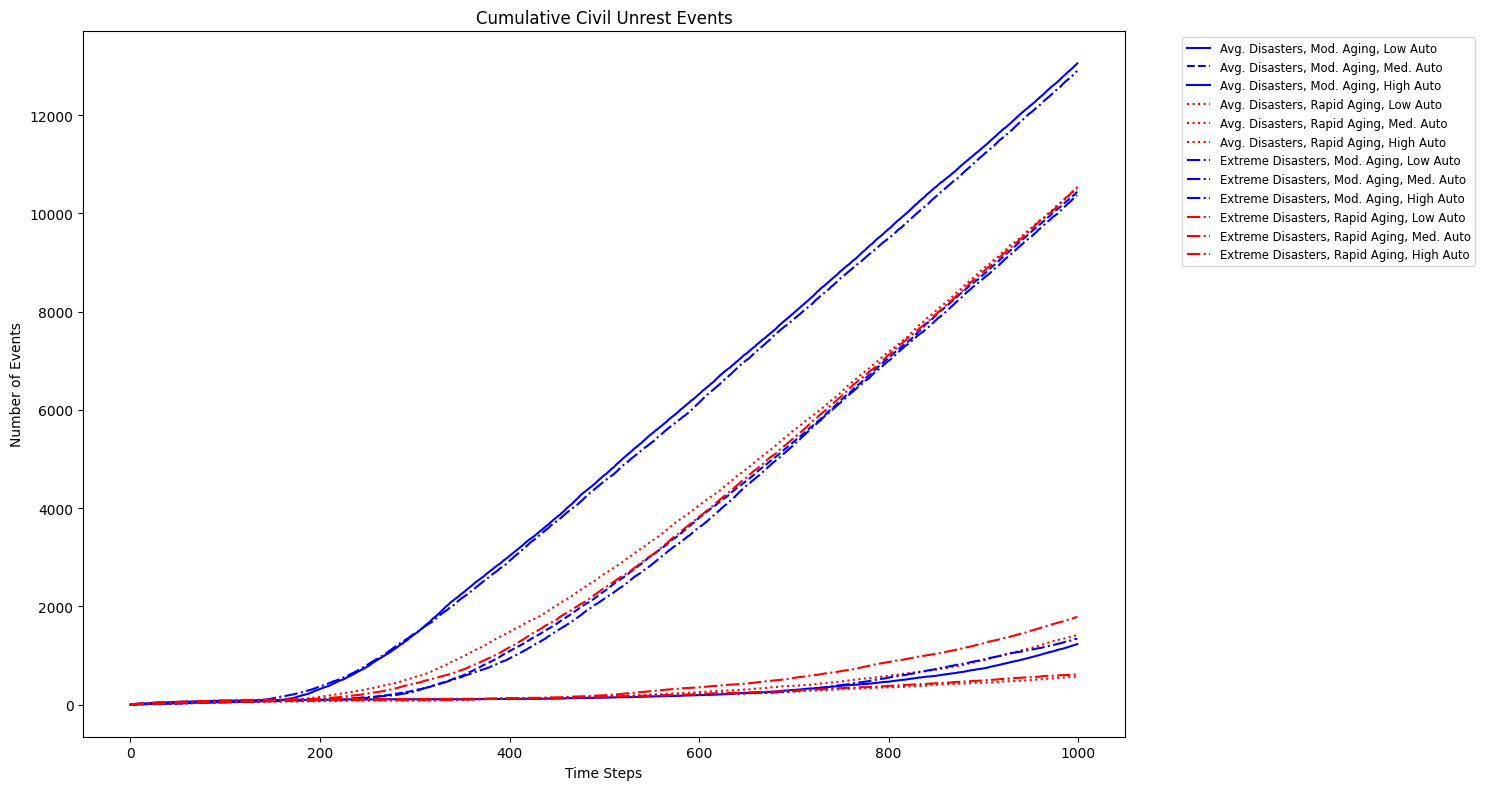
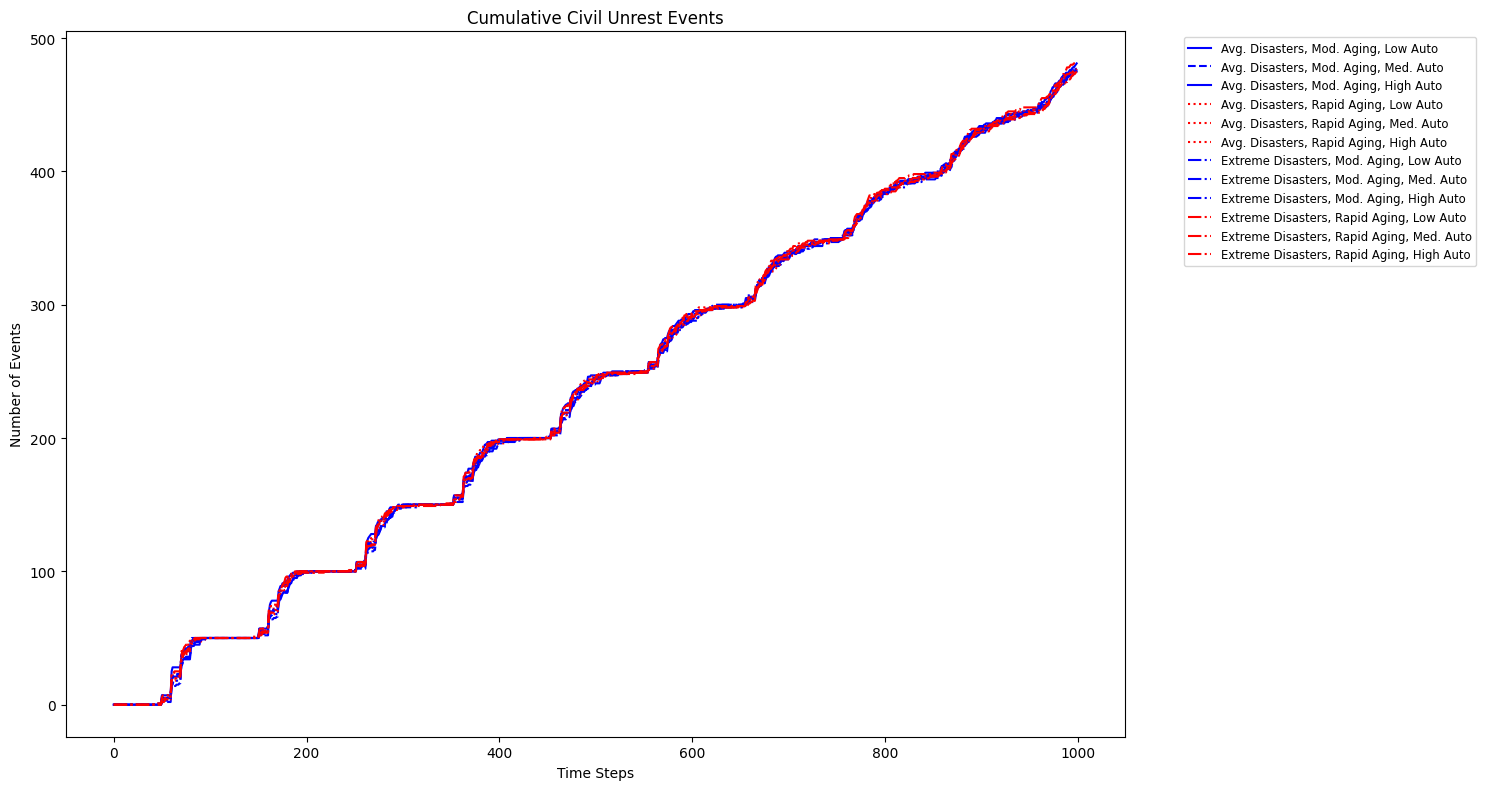
population explosion

diff --git a/warmodel.py b/warmodel.py
@@ -65,7 +65,9 @@ class EnhancedMultiNationalEconomicWarRiskModel:
         self.disaster_scenario = disaster_scenario
         self.aging_scenario = aging_scenario
         self.automation_level = automation_level
-        
+        self.unrest_cooldown = {country: 0 for country in self.country_properties.keys()} 
+        self.productivity_boost_cooldown = {country: 0 for country in self.country_properties.keys()}
+
     def initialize_countries(self):
         countries = []
 
@@ -88,8 +90,18 @@ class EnhancedMultiNationalEconomicWarRiskModel:
                                 (1 + props['urbanization']) * 
                                 (1 - props['aging_index'] / 100) * 
                                 (1 / props['unrest_adjustment']),
+                'birth_rate': self.calculate_initial_birth_rate(props),
+                'death_rate': self.calculate_initial_death_rate(props),
             })
         return countries
+
+    def calculate_initial_birth_rate(self, country_props):
+        # 簡易的な出生率計算（実際のデータに基づいて調整が必要）
+        return 0.02 - 0.01 * (country_props['aging_index'] / 100)  # 2% ~ 1%
+
+    def calculate_initial_death_rate(self, country_props):
+        # 簡易的な死亡率計算（実際のデータに基づいて調整が必要）
+        return 0.007 + 0.003 * (country_props['aging_index'] / 100)  # 0.7% ~ 1%
 
     def create_clusters(self, country_props):
         clusters = []
@@ -134,19 +146,45 @@ class EnhancedMultiNationalEconomicWarRiskModel:
         
         return wealth_distribution
 
+    def update_growth(self, country, t, T):
+        if t % 10 == 0:
+            # Update growth for each cluster
+            for cluster in country['clusters']:
+                # Apply growth rate to cluster wealth
+                net_growth_rate = country['birth_rate'] - country['death_rate']
+                cluster['wealth'] *= (1 + net_growth_rate)
+
+            # Update country's total wealth
+            country['wealth'] = sum(cluster['wealth'] for cluster in country['clusters'])
+            return country
+        else:
+            return country
 
     def update_demographics(self, country, t, T):
-        if country['aging_index'] < 20:
-            # Young countries stay young
-            country['aging_index'] = min(20, country['aging_index'] + 1 * (t / T))
+        # 高齢化と都市化の更新
+        if t % 10 == 0:
+            if country['aging_index'] < 20:
+                country['aging_index'] = min(20, country['aging_index'] + 1 * (t / T))
+            else:
+                if self.aging_scenario == 'moderate':
+                    country['aging_index'] = min(40, country['aging_index'] + (0.3 * 70 * (t / 800) * (1 if np.random.random() < 0.6 else -1)))
+                else:  # rapid aging
+                    country['aging_index'] = min(140, country['aging_index'] + 80 * (t / T))
+            country['urbanization'] = min(1, 0.3 + 0.7 * (t / T))
+
+            # 人口増加の計算
+            net_growth_rate = country['birth_rate'] - country['death_rate']
+            for cluster in country['clusters']:
+                cluster['population'] *= (1 + net_growth_rate)
+            country['population'] = sum(cluster['population'] for cluster in country['clusters'])
+
+            # 出生率と死亡率の動的な更新
+            country['birth_rate'] = max(0.005, country['birth_rate'] - 0.0001 * (t / T))  # 出生率は緩やかに低下
+            country['death_rate'] = min(0.02, country['death_rate'] + 0.00005 * (t / T))  # 死亡率は緩やかに上昇
+
+            return country
         else:
-            # Older countries age gradually
-            if self.aging_scenario == 'moderate':
-                country['aging_index'] = min(100, country['aging_index'] + 40 * (t / T))
-            else:  # rapid aging
-                country['aging_index'] = min(200, country['aging_index'] + 90 * (t / T))
-        country['urbanization'] = min(1, 0.3 + 0.7 * (t / T))
-        return country
+            return country
 
     
     def calculate_gini_coefficient(self, clusters):
@@ -174,21 +212,35 @@ class EnhancedMultiNationalEconomicWarRiskModel:
         gini_coefficient = 1 - 2 * area_under_lorenz
         return gini_coefficient
 
-    
-    def calculate_national_wealth(self, clusters, tax_rate, aging_index):
+        
+    def calculate_national_wealth(self, country, tax_rate):
+        aging_index = country['aging_index']
+        
         if aging_index <= 20:
             adjusted_tax_rate = tax_rate * 0.6
         elif aging_index >= 200:
             adjusted_tax_rate = tax_rate * 1.3
         else:
             adjusted_tax_rate = tax_rate * (0.6 + 0.7 * (aging_index - 20) / 180)
-        return sum(cluster['wealth'] for cluster in clusters) * adjusted_tax_rate
-    
+        
+        total_wealth = sum(cluster['wealth'] for cluster in country['clusters'])
+        tax_collected = total_wealth * adjusted_tax_rate
+        
+        # Deduct taxes from each cluster proportionally
+        for cluster in country['clusters']:
+            cluster_tax = cluster['wealth'] * adjusted_tax_rate
+            cluster['wealth'] -= cluster_tax
+        
+        # Update country's wealth
+        country['wealth'] += tax_collected
+        
+        return country
+
     def calculate_unrest_score(self, country):
         urban_rural_conflict = abs(country['urbanization'] - 0.5)
         education_resentment = country['education_level'] * (1 - country['education_level'])  # Highest at 0.5, lowest at 0 and 1
         elite_surplus = (country['education_level'] - country['wealth'] / country['population']) * 0.1
-        gini_score = country['gini_coefficient'] / (country['wealth'] / country['population'])
+        gini_score = country['gini_coefficient'] * country['population'] / country['wealth'] if country['wealth'] > 0 else 1
         
         # Normalize values to 0-1 range
         urban_rural_conflict = max(min(urban_rural_conflict, 1), 0)
@@ -200,9 +252,18 @@ class EnhancedMultiNationalEconomicWarRiskModel:
     
     
     def check_civil_unrest(self, country):
+        if self.unrest_cooldown[country['name']] > 0:
+            self.unrest_cooldown[country['name']] -= 1
+            return False
+
         unrest_score = self.calculate_unrest_score(country)
-        unrest_probability = max(min(unrest_score * country['unrest_adjustment'], 1), 0)
-        return random.random() < unrest_probability
+        unrest_threshold = 0.7
+        unrest_probability = max(min((unrest_score - unrest_threshold) * country['unrest_adjustment'], 1), 0)
+        
+        if random.random() < unrest_probability:
+            self.unrest_cooldown[country['name']] = 100  # 60-step cooldown period
+            return True
+        return False
     
     def apply_disaster_penalty(self, wealth):
         if np.random.random() < self.disaster_scenario['probability']:
@@ -213,18 +274,27 @@ class EnhancedMultiNationalEconomicWarRiskModel:
     def apply_automation_effects(self, country):
         if self.automation_level == 'low':
             productivity_boost = 1.1
-            inequality_factor = 0.99
+            inequality_change_bad = (1.05, 1.10)
+            inequality_change_good = (0.88, 0.94)
             education_factor = 1.01
         elif self.automation_level == 'medium':
             productivity_boost = 1.3
-            inequality_factor = 1.01
+            inequality_change_bad = (1.07, 1.12)
+            inequality_change_good = (0.86, 0.92)
             education_factor = 1.03
         else:  # high
             productivity_boost = 1.5
-            inequality_factor = 1.04
+            inequality_change_bad = (1.09, 1.14)
+            inequality_change_good = (0.84, 0.90)
             education_factor = 1.05
         
         country['productivity'] *= productivity_boost
+        
+        if random.random() < 0.4:  # 2 in 5 chance
+            inequality_factor = random.uniform(*inequality_change_bad)
+        else:  # 3 in 5 chance
+            inequality_factor = random.uniform(*inequality_change_good)
+        
         country['gini_coefficient'] = min(1, country['gini_coefficient'] * inequality_factor)
         country['education_level'] *= education_factor
         return country
@@ -243,17 +313,46 @@ class EnhancedMultiNationalEconomicWarRiskModel:
         # 2. 全世界の富の大きさ
         poor_nations = [w for w in national_wealth if w < 0.5 * avg_wealth]
         wealth_gap = sum(0.5 * avg_wealth - w for w in poor_nations)
-        # Prevent overflow by clamping the exponent
         exponent = np.clip(0.001 * (total_wealth - wealth_gap), -709, 709)
         global_wealth_factor = 1 / (1 + np.exp(exponent))
         
-        # 戦争リスク計算
-        war_risk = (
-            poor_country_ratio
-        ) * global_wealth_factor
+        # 3. 新しい要因: 教育レベルの差
+        education_disparity = np.std(education_levels) / np.mean(education_levels)
+        
+        # 4. 新しい要因: 高齢化の差
+        aging_disparity = np.std(aging_indices) / np.mean(aging_indices)
+        
+        # 戦争リスク計算（係数を導入）
+        base_risk = (
+            0.1 * poor_country_ratio +
+            0.2 * global_wealth_factor +
+            0.15 * education_disparity +
+            0.15 * aging_disparity
+        )
+        
+        # 調整係数（この値は適切に調整する必要があります）
+        adjustment_factor = 0.01
+        
+        war_risk = 1 - np.exp(-adjustment_factor * base_risk)
         
         return min(max(war_risk, 0), 1)
-    
+
+
+    def apply_productivity_boost(self, country):
+        if self.productivity_boost_cooldown[country['name']] > 0:
+            self.productivity_boost_cooldown[country['name']] -= 1
+            return country, False
+
+        if random.random() < 0.025:  # 1 in 40 chance (on average, once every 40 steps)
+            boost_factor = random.uniform(1.3, 2.0)
+            for cluster in country['clusters']:
+                cluster['wealth'] *= boost_factor
+            country['wealth'] = sum(cluster['wealth'] for cluster in country['clusters'])
+            self.productivity_boost_cooldown[country['name']] = 40  # Set cooldown to 40 steps
+            return country, True
+
+        return country, False
+
     def apply_war_penalties(self, countries):
         active_countries = [country for country in countries if country['active']]
         if len(active_countries) < 2:
@@ -263,19 +362,39 @@ class EnhancedMultiNationalEconomicWarRiskModel:
         losers = [country for country in active_countries if country != winner]
 
         winner['wealth'] *= 0.8
+        winner['birth_rate'] *= 2
+        winner['death_rate'] /= 2
+        winner['aging_index'] = 15  # Reset to a young population
 
         for loser in losers:
             loser['wealth'] *= 0.4
+            loser['birth_rate'] *= 2
+            loser['death_rate'] /= 2
+            loser['aging_index'] = 15  # Reset to a young population
 
         return countries
-    
-    def get_adjusted_clusters(self, country):
-        for i in range(len(country['clusters'])):
-            country['clusters'][i]['wealth'] *= (1 + np.random.normal(0, 0.2))  # Small random fluctuation in wealth
-            country['clusters'][i]['population'] *= (1 + np.random.normal(0, 0.005) - country['aging_index'] * 0.0002)  # Population change considering aging
 
-        country['population'] = sum(cluster['population'] for cluster in country['clusters'])
-        country['wealth'] = sum(cluster['wealth'] for cluster in country['clusters'])
+    def redistribute_wealth_during_unrest(self, country, unrest_impact):
+        total_wealth = sum(cluster['wealth'] for cluster in country['clusters'])
+        total_population = sum(cluster['population'] for cluster in country['clusters'])
+        average_wealth_per_capita = total_wealth / total_population
+
+        # 勝者のクラスターを選択（貧しいクラスターがやや有利）
+        clusters_with_weights = [(cluster, 1 / (cluster['wealth'] + 1)) for cluster in country['clusters']]
+        total_weight = sum(weight for _, weight in clusters_with_weights)
+        normalized_weights = [weight / total_weight for _, weight in clusters_with_weights]
+        winner_cluster = random.choices(country['clusters'], weights=normalized_weights, k=1)[0]
+
+        for cluster in country['clusters']:
+            if cluster == winner_cluster:
+                # 勝者のクラスターは富を増やす
+                cluster['wealth'] *= 1.2
+            else:
+                # 敗者のクラスターは富を減らし、一部を勝者に移転
+                reduction = cluster['wealth'] * 0.3
+                cluster['wealth'] -= reduction
+                winner_cluster['wealth'] += reduction * 0.5  # 減少分の半分を勝者に
+
         return country
 
     def simulate(self, T, dt):
@@ -288,7 +407,9 @@ class EnhancedMultiNationalEconomicWarRiskModel:
         global_war_events = np.zeros(time_steps, dtype=bool)
         disaster_events = np.zeros((self.num_countries, time_steps), dtype=bool)
         unrest_events = np.zeros((self.num_countries, time_steps), dtype=bool)
-        
+        population_data = np.zeros((self.num_countries, time_steps))
+        innovation_events = np.zeros((self.num_countries, time_steps), dtype=bool)
+
         countries = self.initialize_countries()
         
         for t in range(time_steps):
@@ -302,28 +423,33 @@ class EnhancedMultiNationalEconomicWarRiskModel:
                 if not country['active']:
                     continue
                 
+
+
+                country = self.update_growth(country, t, T)
                 country = self.update_demographics(country, t, T)
                 country = self.apply_automation_effects(country)
-                
-                # Update clusters' wealth and population
-                country = self.get_adjusted_clusters(country);
+                country, innovation_occurred = self.apply_productivity_boost(country)
+                if innovation_occurred:
+                    innovation_events[i,t] = True
 
-
-                new_wealth = self.calculate_national_wealth(country['clusters'], self.initial_conditions['tax_rate'], country['aging_index'])
-                country['wealth'] = country['wealth'] + new_wealth
+                country = self.calculate_national_wealth(country, self.initial_conditions['tax_rate'])
                 country['wealth'], disaster_events[i, t] = self.apply_disaster_penalty(country['wealth'])
 
 
                 unrest_events[i, t] = self.check_civil_unrest(country)
                 if unrest_events[i, t]:
-                    country['wealth'] *= np.random.uniform(0.9, 1.0)  # 内乱による経済的損失（ランダムな影響）
-                
+                    unrest_impact = np.random.uniform(0.8, 0.9)  # より小さな経済的損失
+                    country['wealth'] *= unrest_impact
+                    country = self.redistribute_wealth_during_unrest(country, unrest_impact)
+                    country['unrest_adjustment'] *= 0.8  # 内戦後、一時的に不安定性が低下
+
                 national_wealth[i, t] = country['wealth']
                 urbanization_rates[i, t] = country['urbanization']
                 aging_indices[i, t] = country['aging_index']
 
                 gini_coefficients[i, t] = self.calculate_gini_coefficient(country['clusters'])
 
+                population_data[i, t] = country['population'] 
 
                 if country['wealth'] <= 0:
                     country['active'] = False
@@ -346,7 +472,9 @@ class EnhancedMultiNationalEconomicWarRiskModel:
             'aging_indices': aging_indices,
             'global_war_events': global_war_events,
             'disaster_events': disaster_events,
-            'unrest_events': unrest_events
+            'unrest_events': unrest_events,
+            'population_data': population_data,
+            'innovation_events': innovation_events
         }
 
 def run_simulations():
@@ -490,6 +618,23 @@ def plot_results(results):
     plt.savefig('./figs/cumulative_unrest_events.png', bbox_inches='tight')
     plt.close()
 
+
+    # 累積イノベーションイベント数の比較
+    plt.figure(figsize=(15, 8))
+    for scenario_name, result in results.items():
+        disaster, aging, automation = scenario_name.split('_')
+        color = automation_colors[automation]
+        linestyle = get_line_style(disaster, aging, automation)
+        cumulative_innovations = np.sum(result['innovation_events'], axis=0).cumsum()
+        plt.plot(cumulative_innovations, label=create_label(scenario_name), color=color, linestyle=linestyle)
+    plt.title('Cumulative Innovation Events')
+    plt.xlabel('Time Steps')
+    plt.ylabel('Number of Events')
+    plt.legend(bbox_to_anchor=(1.05, 1), loc='upper left', fontsize='small')
+    plt.tight_layout()
+    plt.savefig('./figs/cumulative_innovation_events.png', bbox_inches='tight')
+    plt.close()
+
     # 平均ジニ係数の比較
     plt.figure(figsize=(15, 8))
     for scenario_name, result in results.items():
@@ -522,22 +667,24 @@ def plot_results(results):
     plt.savefig('./figs/aging_index_comparison.png', bbox_inches='tight')
     plt.close()
 
-
-    # 人口の比較
+    # World Population Comparison
     plt.figure(figsize=(15, 8))
     for scenario_name, result in results.items():
         disaster, aging, automation = scenario_name.split('_')
-        color = aging_colors[aging]
+        color = automation_colors[automation]
         linestyle = get_line_style(disaster, aging, automation)
-        avg_population = np.mean(result['national_wealth'], axis=0) / 1000  # Assuming wealth per capita is 1000
-        plt.plot(avg_population, label=create_label(scenario_name), color=color, linestyle=linestyle)
-    plt.title('Average Population Comparison')
+        world_population = np.sum(result['population_data'], axis=0) / 1e9  # Convert to billions
+        world_population = np.clip(world_population, 0, 10)  # Clip values between 0 and 10 billion
+        plt.plot(world_population, label=create_label(scenario_name), color=color, linestyle=linestyle)
+    plt.title('World Population Comparison')
     plt.xlabel('Time Steps')
-    plt.ylabel('Population (millions)')
+    plt.ylabel('Population (billions)')
+    plt.ylim(0, 10)  # Set y-axis limits from 0 to 10 billion
     plt.legend(bbox_to_anchor=(1.05, 1), loc='upper left', fontsize='small')
     plt.tight_layout()
-    plt.savefig('./figs/population_comparison.png', bbox_inches='tight')
+    plt.savefig('./figs/world_population_comparison.png', bbox_inches='tight')
     plt.close()
+
 
     print("All plots have been saved in the './figs' directory.")
 
